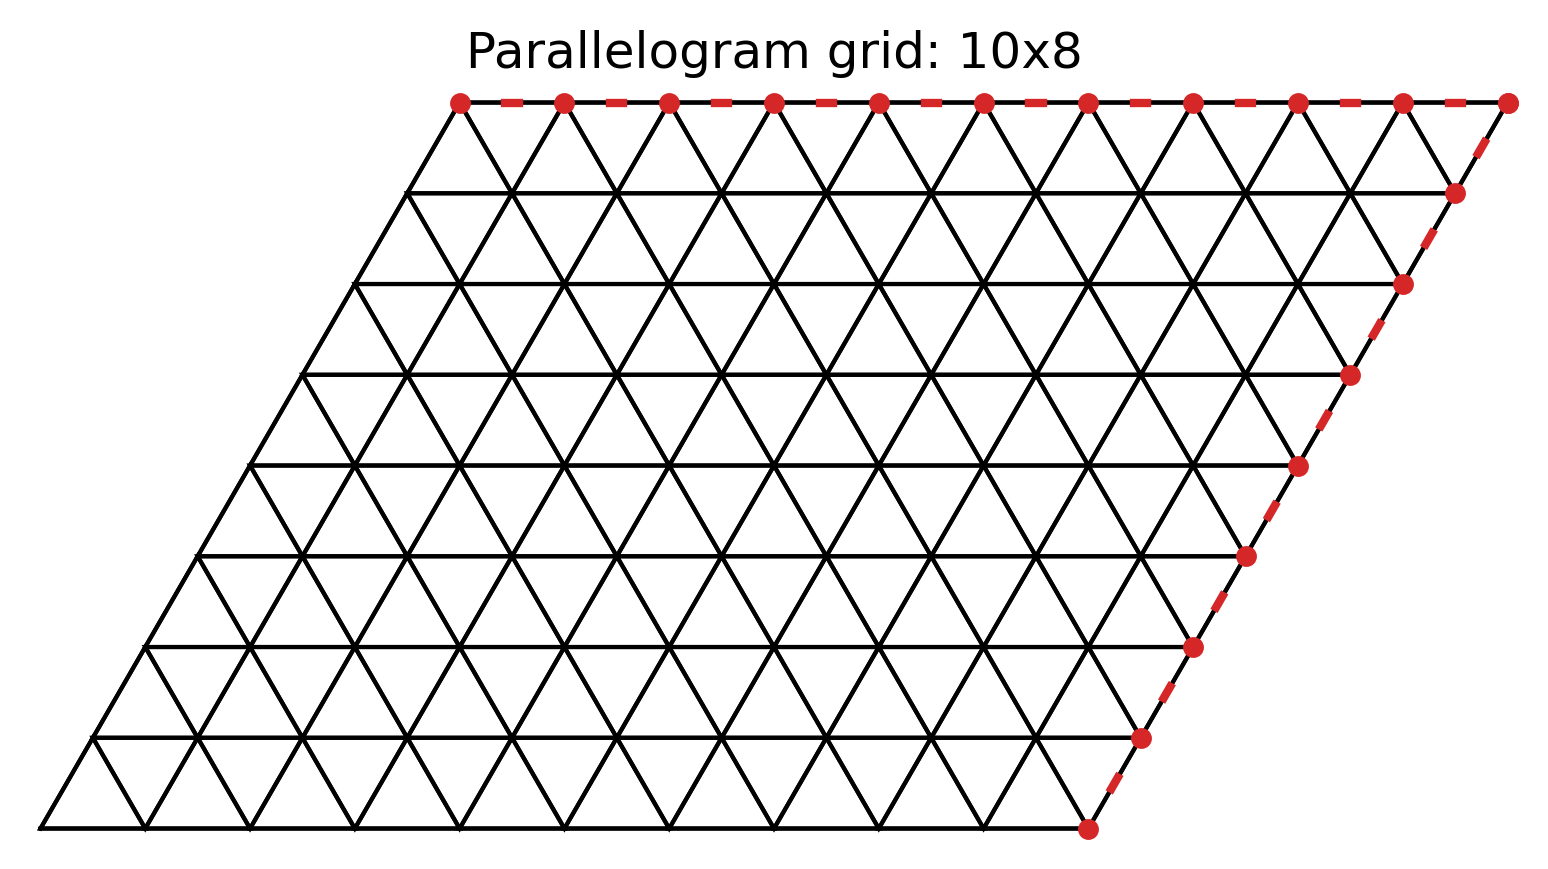
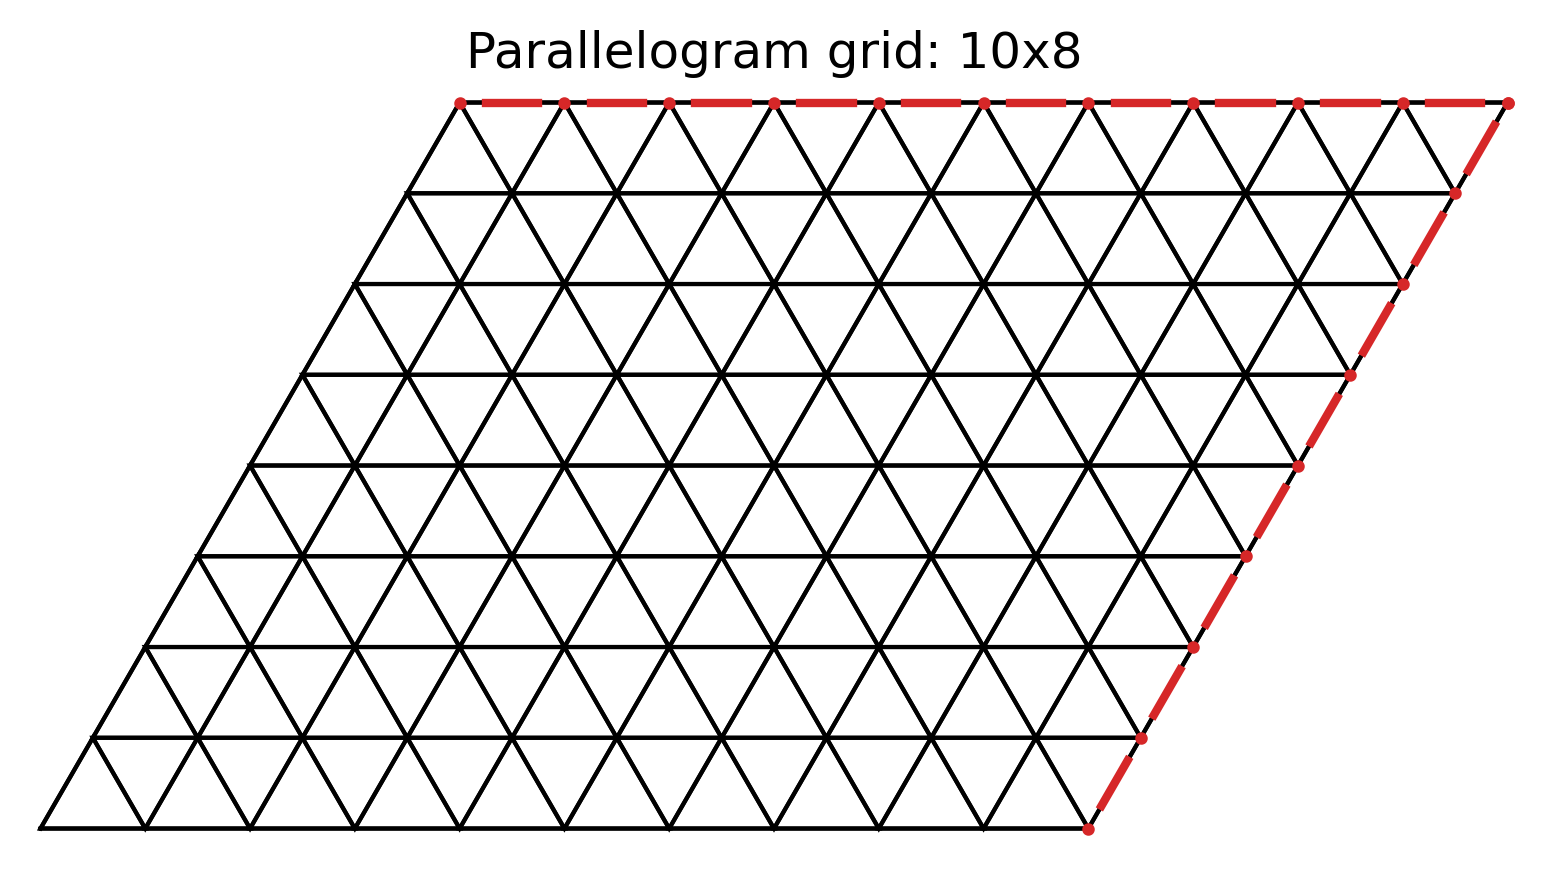
Add better parallelogram plots. Now also the one with the lateral boundary is correct.

diff --git a/model/atmosphere/dycore/docs/ext/offset_providers.py b/model/atmosphere/dycore/docs/ext/offset_providers.py
@@ -115,7 +115,7 @@ class Triangle:
         Parameters:
             vertex : Vertex to be colored ('A', 'B', or 'C')
         """
-        vertex_size = self.vertex_size - 2 * coloridx
+        vertex_size = self.vertex_size - 8# * coloridx
         match vertex:
             case "A":
                 self.ax.plot(
@@ -142,7 +142,7 @@ class Triangle:
         """
         Fills the triangle area with color, leaving some distance from the sides.
         """
-        cell_offset = self.cell_offset + self.cell_offset / 8 * coloridx
+        cell_offset = self.cell_offset #+ self.cell_offset / 8 * coloridx
         if self.orientation == "up":
             A = (
                 self.A[0] + cell_offset * np.cos(np.pi / 6),
@@ -174,7 +174,15 @@ class Triangle:
         Parameters:
             edge : Edge to be colored ('AB', 'BC', or 'CA')
         """
-        edge_offset = self.edge_offset + self.edge_offset / 4 * coloridx
+        # allow passing a color string instead of a color index
+        if isinstance(coloridx, (int, np.integer)):
+            offset_factor = coloridx
+            color = COLORS[coloridx]
+        else:
+            offset_factor = 0
+            color = coloridx
+
+        edge_offset = self.edge_offset #+ self.edge_offset / 4 #* offset_factor
         match (edge, self.orientation):
             case ("AB", "up"):
                 V0 = (self.A[0] + edge_offset, self.A[1])
@@ -222,8 +230,8 @@ class Triangle:
         self.ax.plot(
             [V0[0], V1[0]],
             [V0[1], V1[1]],
-            color=COLORS[coloridx],
-            linewidth=self.bold_line - coloridx if linewidth is None else linewidth,
+            color=color,
+            linewidth=self.bold_line - offset_factor if linewidth is None else linewidth,
         )
 
     def color_edges(self, coloridx=0, linewidth=None):
@@ -771,6 +779,30 @@ def generate_parallelogram_colored_loops(nx: int, ny: int, loops: int, label: st
     loops = min(loops, max_loops)
 
     palette = COLORS
+    intermediate_color = "#8A2BE2"  # purple for intermediate layer (fallback)
+    # helper: return a lighter version of a color (hex or named)
+    def lighten_color(col, amount=0.5):
+        try:
+            rgb = mcolors.to_rgb(col)
+        except Exception:
+            rgb = (0.5, 0.5, 0.5)
+        lighter = tuple(c + (1.0 - c) * amount for c in rgb)
+        return mcolors.to_hex(lighter)
+
+    # build vertex dictionary: (i,j) -> (x,y), with i=0..nx, j=0..ny
+    verts = {}
+    for j in range(ny + 1):
+        for i in range(nx + 1):
+            vx = x0 + i * v1[0] + j * v2[0]
+            vy = y0 + i * v1[1] + j * v2[1]
+            verts[(i, j)] = (vx, vy)
+
+    # palette for connector layers (edges joining two consecutive loops)
+    CONNECTOR_COLORS = ["#8A2BE2", "#7FFFD4", "#FFD700", "#FF69B4", "#00CED1", "#ADFF2F"]
+
+    # map triangle keys to objects for quick lookup: ((i,j,orient) -> Triangle)
+    tri_map = {key: tri for (key, tri) in triangles}
+
     # helper to find triangle edge for a vertex pair
     def find_triangle_edge(pA, pB):
         for (_, tri) in triangles:
@@ -795,7 +827,7 @@ def generate_parallelogram_colored_loops(nx: int, ny: int, loops: int, label: st
             B = (x0 + (i + 1) * v1[0] + j1 * v2[0], y0 + (i + 1) * v1[1] + j1 * v2[1])
             tri, edge = find_triangle_edge(A, B)
             if tri is not None:
-                tri.color_edge(edge, k % len(palette))
+                tri.color_edge(edge, k % len(palette), linewidth=1.5)
             else:
                 # fallback: draw the colored line directly to ensure coverage
                 ax.plot([A[0], B[0]], [A[1], B[1]], color=COLORS[k % len(palette)], linewidth=3)
@@ -806,7 +838,7 @@ def generate_parallelogram_colored_loops(nx: int, ny: int, loops: int, label: st
             B = (x0 + i1 * v1[0] + (j + 1) * v2[0], y0 + i1 * v1[1] + (j + 1) * v2[1])
             tri, edge = find_triangle_edge(A, B)
             if tri is not None:
-                tri.color_edge(edge, k % len(palette))
+                tri.color_edge(edge, k % len(palette), linewidth=1.5)
             else:
                 ax.plot([A[0], B[0]], [A[1], B[1]], color=COLORS[k % len(palette)], linewidth=3)
 
@@ -816,7 +848,7 @@ def generate_parallelogram_colored_loops(nx: int, ny: int, loops: int, label: st
             B = (x0 + (i + 1) * v1[0] + j0 * v2[0], y0 + (i + 1) * v1[1] + j0 * v2[1])
             tri, edge = find_triangle_edge(A, B)
             if tri is not None:
-                tri.color_edge(edge, k % len(palette))
+                tri.color_edge(edge, k % len(palette), linewidth=1.5)
             else:
                 ax.plot([A[0], B[0]], [A[1], B[1]], color=COLORS[k % len(palette)], linewidth=3)
 
@@ -826,9 +858,105 @@ def generate_parallelogram_colored_loops(nx: int, ny: int, loops: int, label: st
             B = (x0 + i0 * v1[0] + (j + 1) * v2[0], y0 + i0 * v1[1] + (j + 1) * v2[1])
             tri, edge = find_triangle_edge(A, B)
             if tri is not None:
-                tri.color_edge(edge, k % len(palette))
+                tri.color_edge(edge, k % len(palette), linewidth=1.5)
             else:
                 ax.plot([A[0], B[0]], [A[1], B[1]], color=COLORS[k % len(palette)], linewidth=3)
+
+        # color connector edges between layer k and k+1 (all edge orientations)
+        if k < loops:
+            # derive connector color as a lighter version of the outer loop color
+            outer_color = palette[k % len(palette)]
+            conn_color = lighten_color(outer_color, amount=0.6)
+
+            # horizontal edges: (i,i+1) at constant j
+            for j in range(0, ny + 1):
+                for i in range(0, nx):
+                    u = (i, j)
+                    v = (i + 1, j)
+                    lu = min(u[0], u[1], nx - u[0], ny - u[1])
+                    lv = min(v[0], v[1], nx - v[0], ny - v[1])
+                    if {lu, lv} == {k, k + 1}:
+                        A = verts[u]
+                        B = verts[v]
+                        tri, edge = find_triangle_edge(A, B)
+                        if tri is not None:
+                            tri.color_edge(edge, conn_color, linewidth=2)
+                        else:
+                            ax.plot([A[0], B[0]], [A[1], B[1]], color=conn_color, linewidth=2)
+
+            # vertical edges: (j,j+1) at constant i
+            for i in range(0, nx + 1):
+                for j in range(0, ny):
+                    u = (i, j)
+                    v = (i, j + 1)
+                    lu = min(u[0], u[1], nx - u[0], ny - u[1])
+                    lv = min(v[0], v[1], nx - v[0], ny - v[1])
+                    if {lu, lv} == {k, k + 1}:
+                        A = verts[u]
+                        B = verts[v]
+                        tri, edge = find_triangle_edge(A, B)
+                        if tri is not None:
+                            tri.color_edge(edge, conn_color, linewidth=2)
+                        else:
+                            ax.plot([A[0], B[0]], [A[1], B[1]], color=conn_color, linewidth=2)
+
+            # diagonal edges: (i+1,j) -- (i,j+1)
+            for i in range(0, nx):
+                for j in range(0, ny):
+                    u = (i + 1, j)
+                    v = (i, j + 1)
+                    lu = min(u[0], u[1], nx - u[0], ny - u[1])
+                    lv = min(v[0], v[1], nx - v[0], ny - v[1])
+                    # normal connector between consecutive layers
+                    cond1 = {lu, lv} == {k, k + 1}
+                    # special-case corner diagonals: both endpoints report layer k
+                    # but the diagonal lies between loop k and k+1 (bottom-left or top-right)
+                    cond2 = (lu == lv == k) and (
+                        (i == i0 and j == j0) or (i == i1 - 1 and j == j1 - 1)
+                    )
+                    if cond1 or cond2:
+                        A = verts[u]
+                        B = verts[v]
+                        tri, edge = find_triangle_edge(A, B)
+                        if tri is not None:
+                            tri.color_edge(edge, conn_color, linewidth=2)
+                        else:
+                            ax.plot([A[0], B[0]], [A[1], B[1]], color=conn_color, linewidth=2)
+
+        # collect this loop's vertex points so we can color vertices
+        loop_vertices = set()
+        for i in range(i0, i1 + 1):
+            loop_vertices.add(verts[(i, j1)])
+            loop_vertices.add(verts[(i, j0)])
+        for j in range(j0, j1 + 1):
+            loop_vertices.add(verts[(i0, j)])
+            loop_vertices.add(verts[(i1, j)])
+
+        # color vertices for this loop
+        for p in loop_vertices:
+            for (key, tri) in triangles:
+                if np.allclose(tri.A, p):
+                    tri.color_vertex("A", k % len(palette))
+                    break
+                if np.allclose(tri.B, p):
+                    tri.color_vertex("B", k % len(palette))
+                    break
+                if np.allclose(tri.C, p):
+                    tri.color_vertex("C", k % len(palette))
+                    break
+
+        # color entire unit parallelograms (both up/down triangles) for this layer
+        for i in range(i0, i1):
+            for j in range(j0, j1):
+                # compute unit cell layer
+                unit_layer = min(i, j, nx - 1 - i, ny - 1 - j)
+                if unit_layer == k:
+                    up_key = (i, j, "up")
+                    down_key = (i, j, "down")
+                    if up_key in tri_map:
+                        tri_map[up_key].color_cell(k % len(palette))
+                    if down_key in tri_map:
+                        tri_map[down_key].color_cell(k % len(palette))
 
     ax.set_aspect("equal")
     ax.axis("off")
@@ -874,7 +1002,7 @@ def generate_page(static_dir: str):
 # ===============================================================================
 if __name__ == "__main__":
     # generate the existing offset provider figures
-    generate_figures()
+    # generate_figures()
 
     # generate unit cell image
     generate_unit_cell_figure(static_dir=".")
